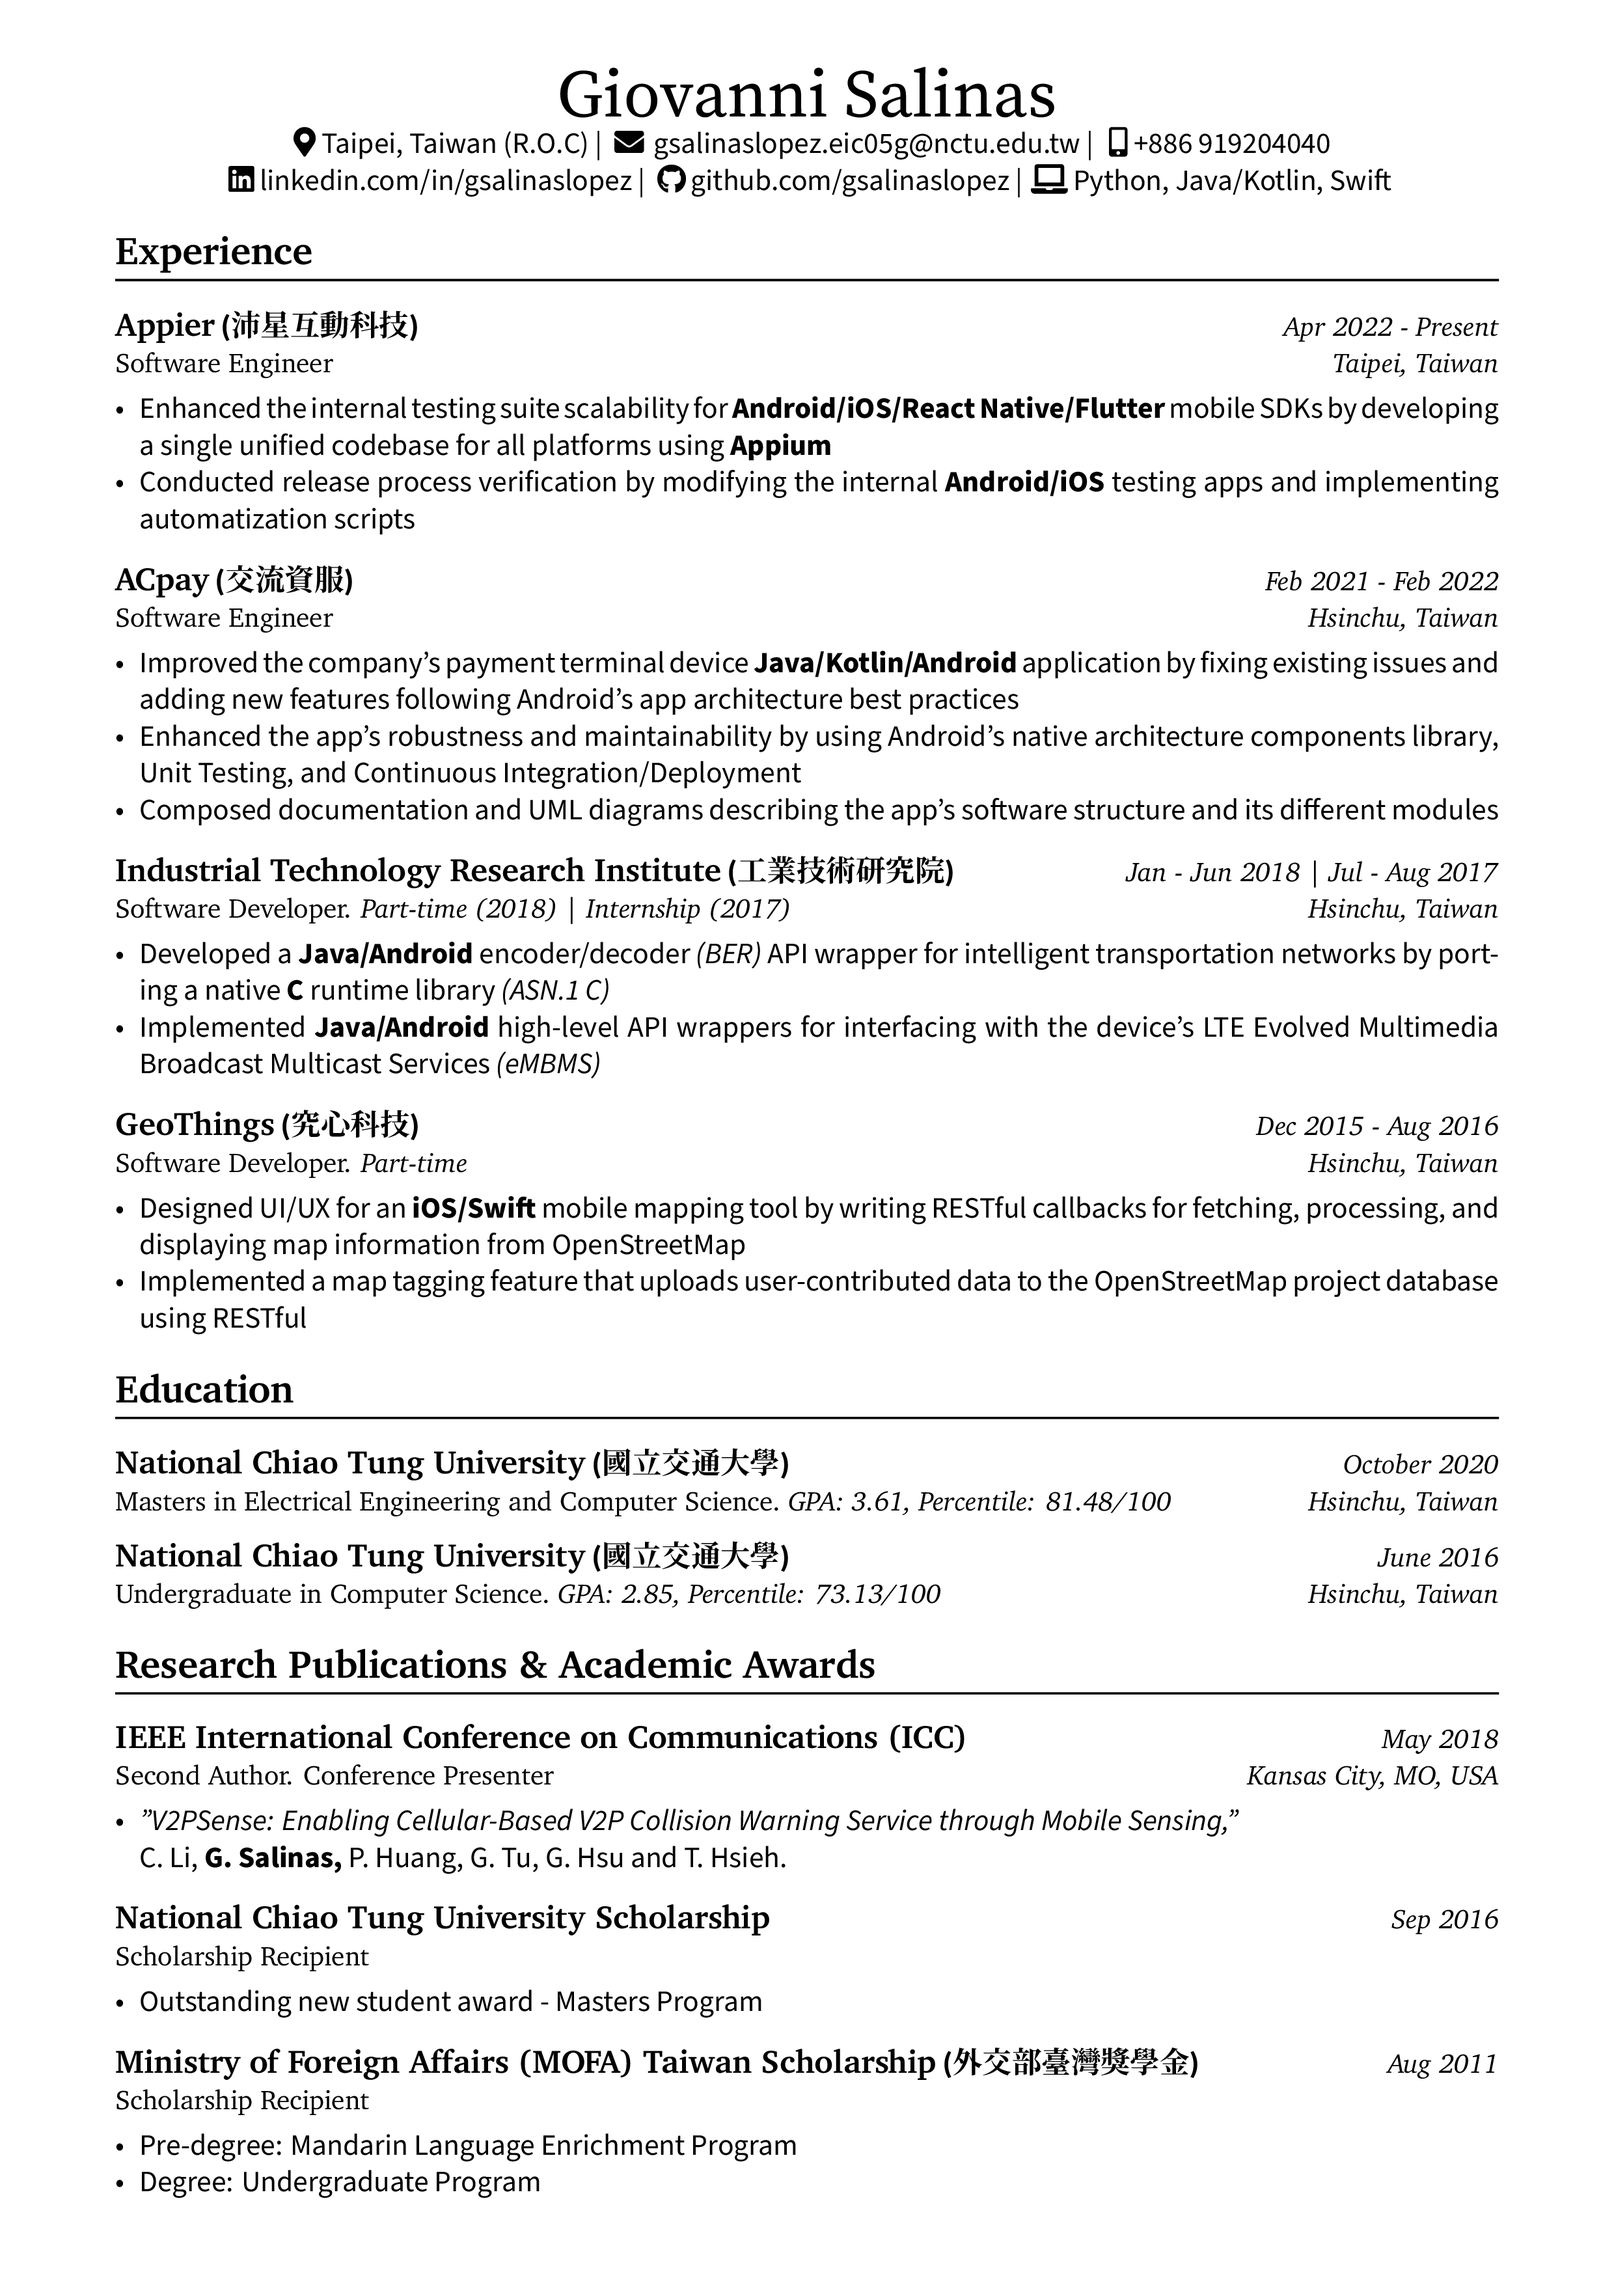
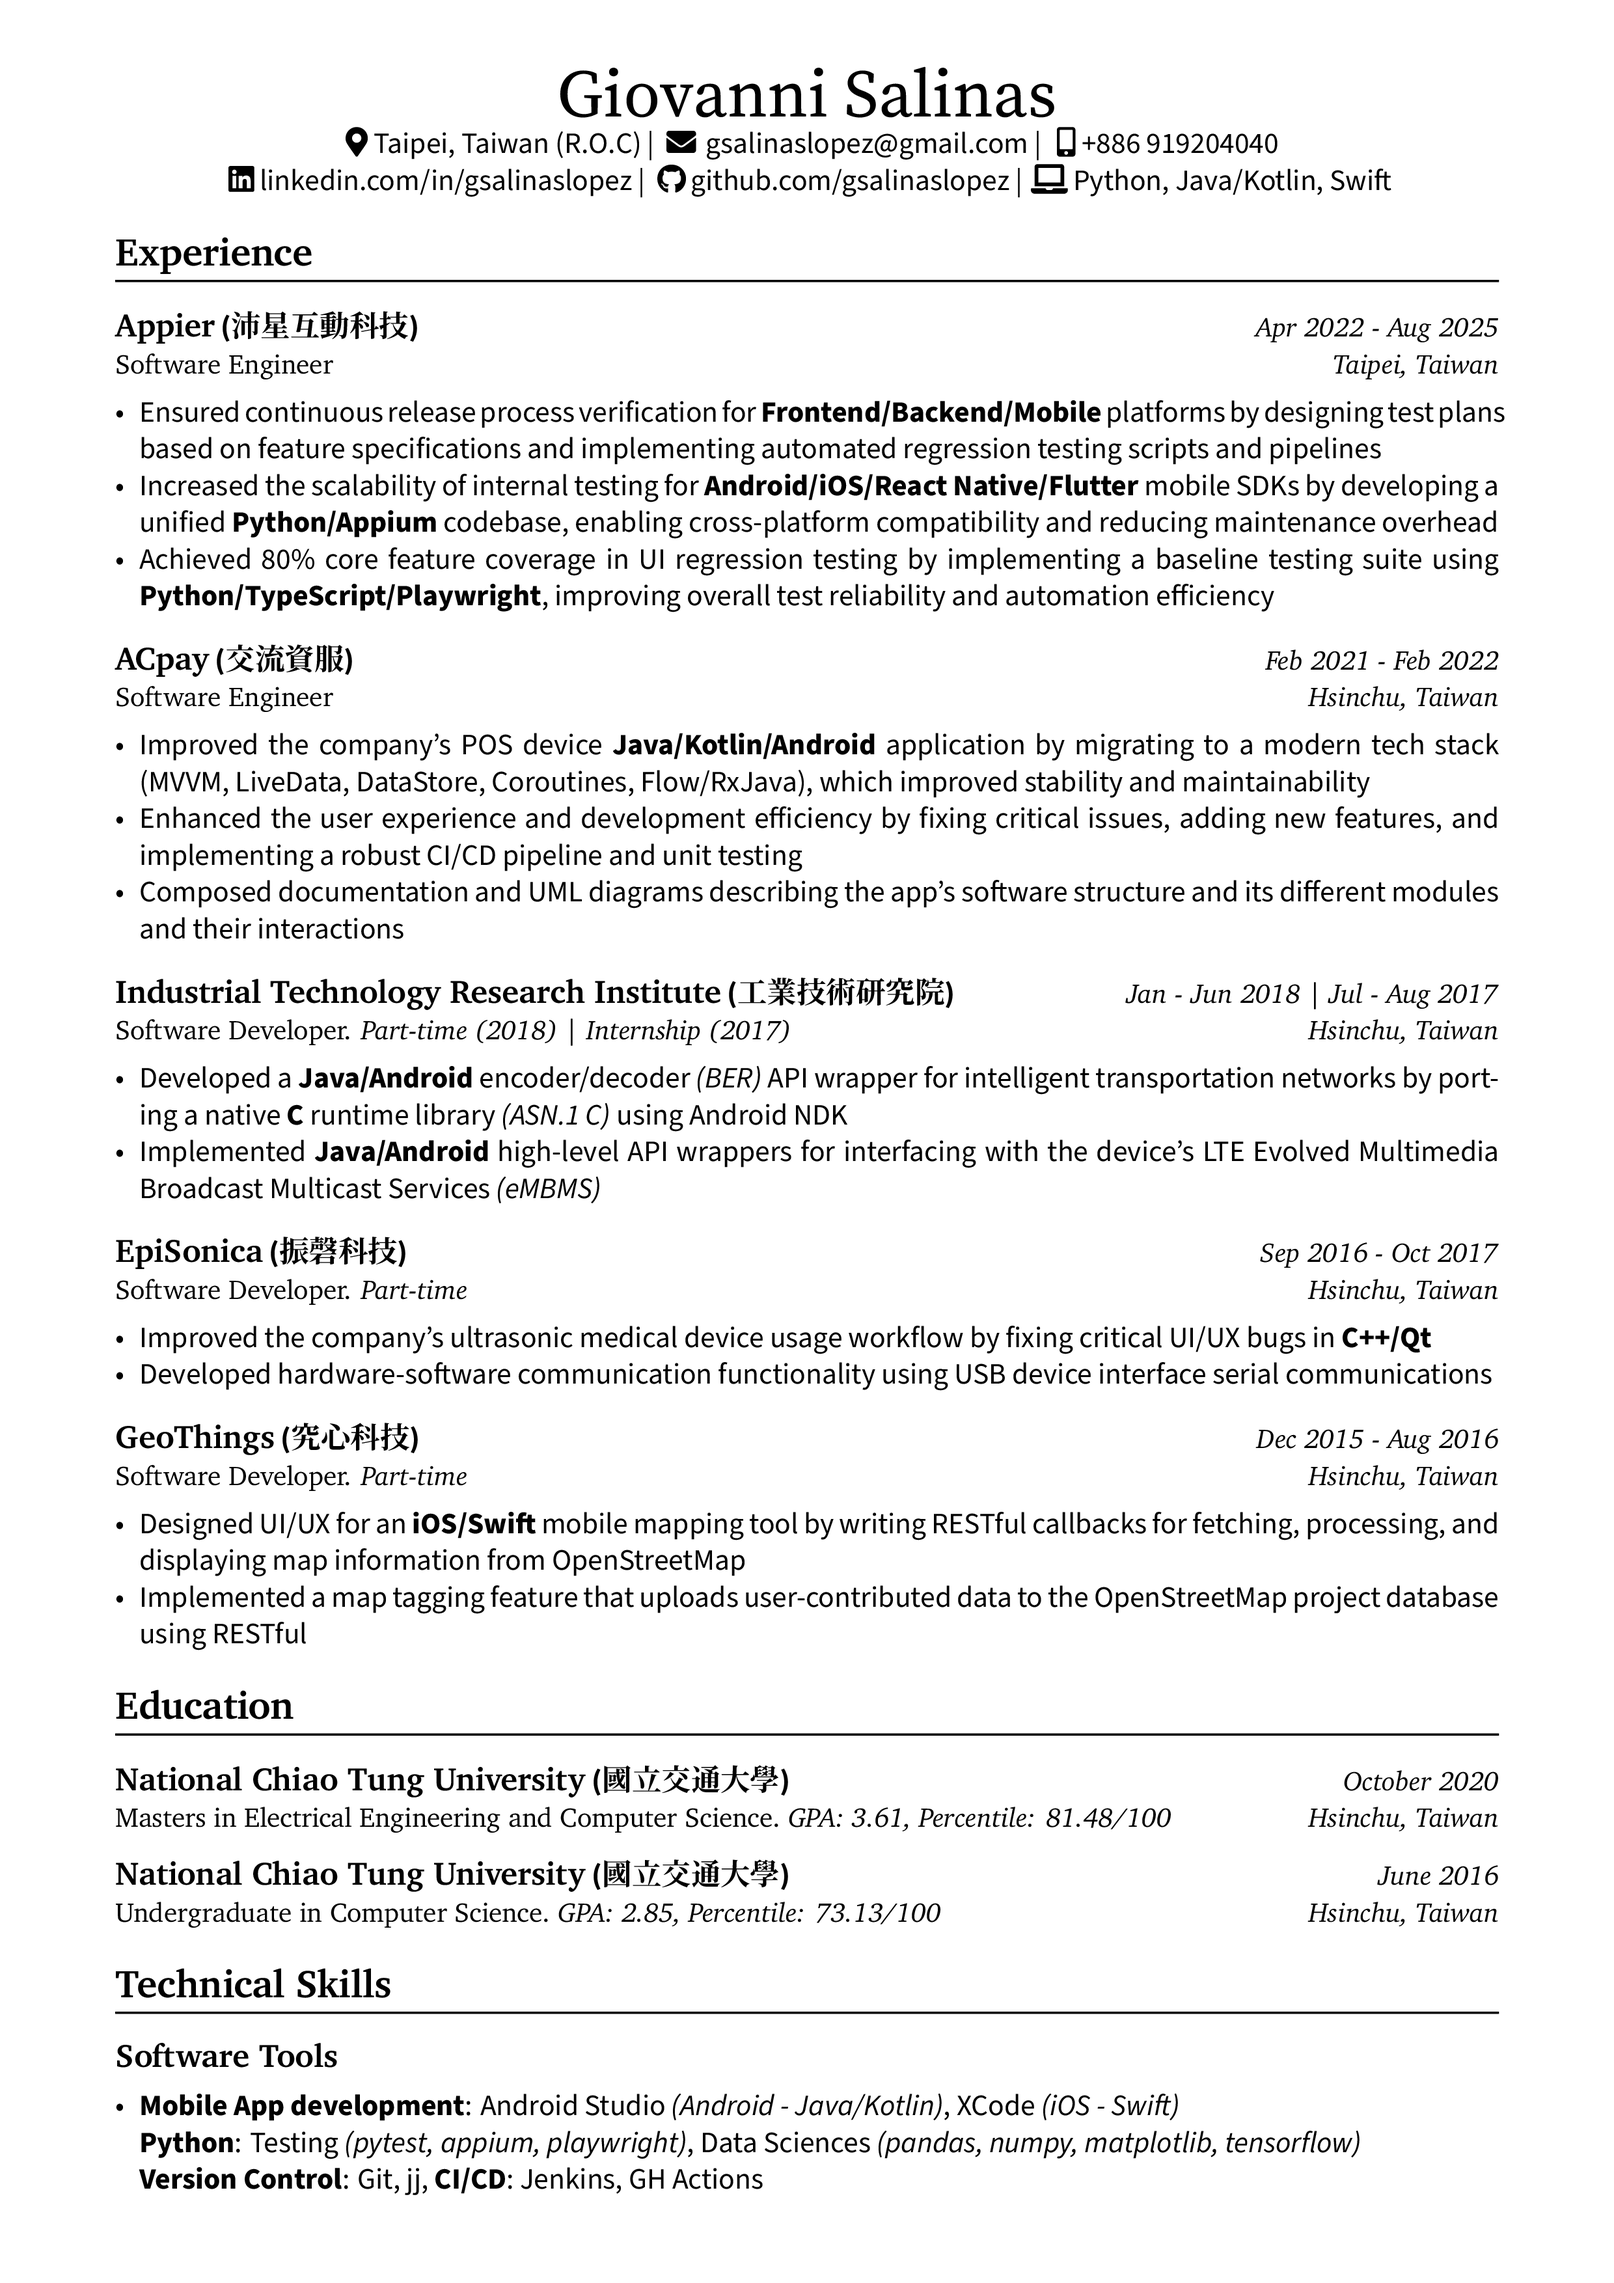
README and png update

diff --git a/README.md b/README.md
@@ -14,14 +14,20 @@ Alternatively, use the pre-built packaged image:
 $ docker pull ghcr.io/gsalinaslopez/cv:release
 ```
 
-Run xelatex inside the container
+Run the container
 ```
 $ docker run -it -v $(pwd):/workdir --rm cv bash
 
-root@container-id:/workdir# xelatex ...
+# If using podman, add ':z' after the volume mapping
+$ podman run -it -v $(pwd):/workdir:z --rm cv bash
 ```
 
-Conver pdf to png using [ImageMagick](https://imagemagick.org/)
+Once attached to the container, run xelatex to generate the `.pdf` file
+```
+root@container-id:/workdir# xelatex XXX.tex
+```
+
+Convert pdf to png using [ImageMagick](https://imagemagick.org/)
 ```
 // add [#pp] for multipage pdf: i.e. file.pdf[2] for 3rd page
 convert -flatten -density 300 file.pdf -quality 90 file.png
@@ -29,9 +35,9 @@ convert -flatten -density 300 file.pdf -quality 90 file.png
 
 ### Preview
 
-| English | Hybrid (Chinglish) |
-|:---: | :---: |
-|[![CV English](./Giovanni_Salinas_resume_en.png)](https://raw.githubusercontent.com/gsalinaslopez/cv/main/Giovanni_Salinas_resume_en.pdf) | [![CV Chinglish](./Giovanni_Salinas_resume_cn_en.png)](https://raw.githubusercontent.com/gsalinaslopez/cv/main/Giovanni_Salinas_resume_cn_en.pdf) |
+| 1 Page version |
+|:---: |
+|[![CV 1PP](./Giovanni_Salinas_resume_cn_en.png)](https://raw.githubusercontent.com/gsalinaslopez/cv/main/Giovanni_Salinas_resume_cn_en.pdf) |
 
 | 2 Page version (1) | 2 Page version (2) |
 |:---: | :---: |
